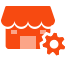
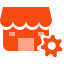
样式修改

Changed region(s): [[0.0, 0.0625, 1.0, 0.9062]]

diff --git a/shop-web/src/main/webapp/static/css/index.css b/shop-web/src/main/webapp/static/css/index.css
@@ -115,6 +115,11 @@
   height: 100%;
   display: -webkit-box;
 }
+.wrap .box nav ul li a{
+  display: block;
+  width: 100%;
+  height: 100%;
+}
 .wrap .box nav ul li:last-child {
   margin: 0;
 }
@@ -129,7 +134,6 @@
   margin-right: 1px;
 }
 .wrap .box nav ul li h1 {
-  height: 33px;
   position: relative;
 }
 .wrap .box nav ul li h1 span{
@@ -145,7 +149,7 @@
 }
 .box nav ul li h1 img {
   display: block;
-  width: 24px;
+  width: 33%;
   margin: 0 auto;
 }
 .box nav ul li span {

diff --git a/shop-web/src/main/webapp/static/css/wodedianpu.css b/shop-web/src/main/webapp/static/css/wodedianpu.css
@@ -156,13 +156,14 @@
   -webkit-box-align: center;
   -webkit-box-pack: center;
   font-size:12px;
-}
-.wrap > nav p span:nth-child(1){
-  height:30px;
+  display: block;
+  width: 100%;
+  text-align: center;
 }
 .wrap > nav p span img {
   display: block;
-  width: 40%;
+  width: 33%;
+  margin: 0 auto;
 }
 
 .wrap_no {
